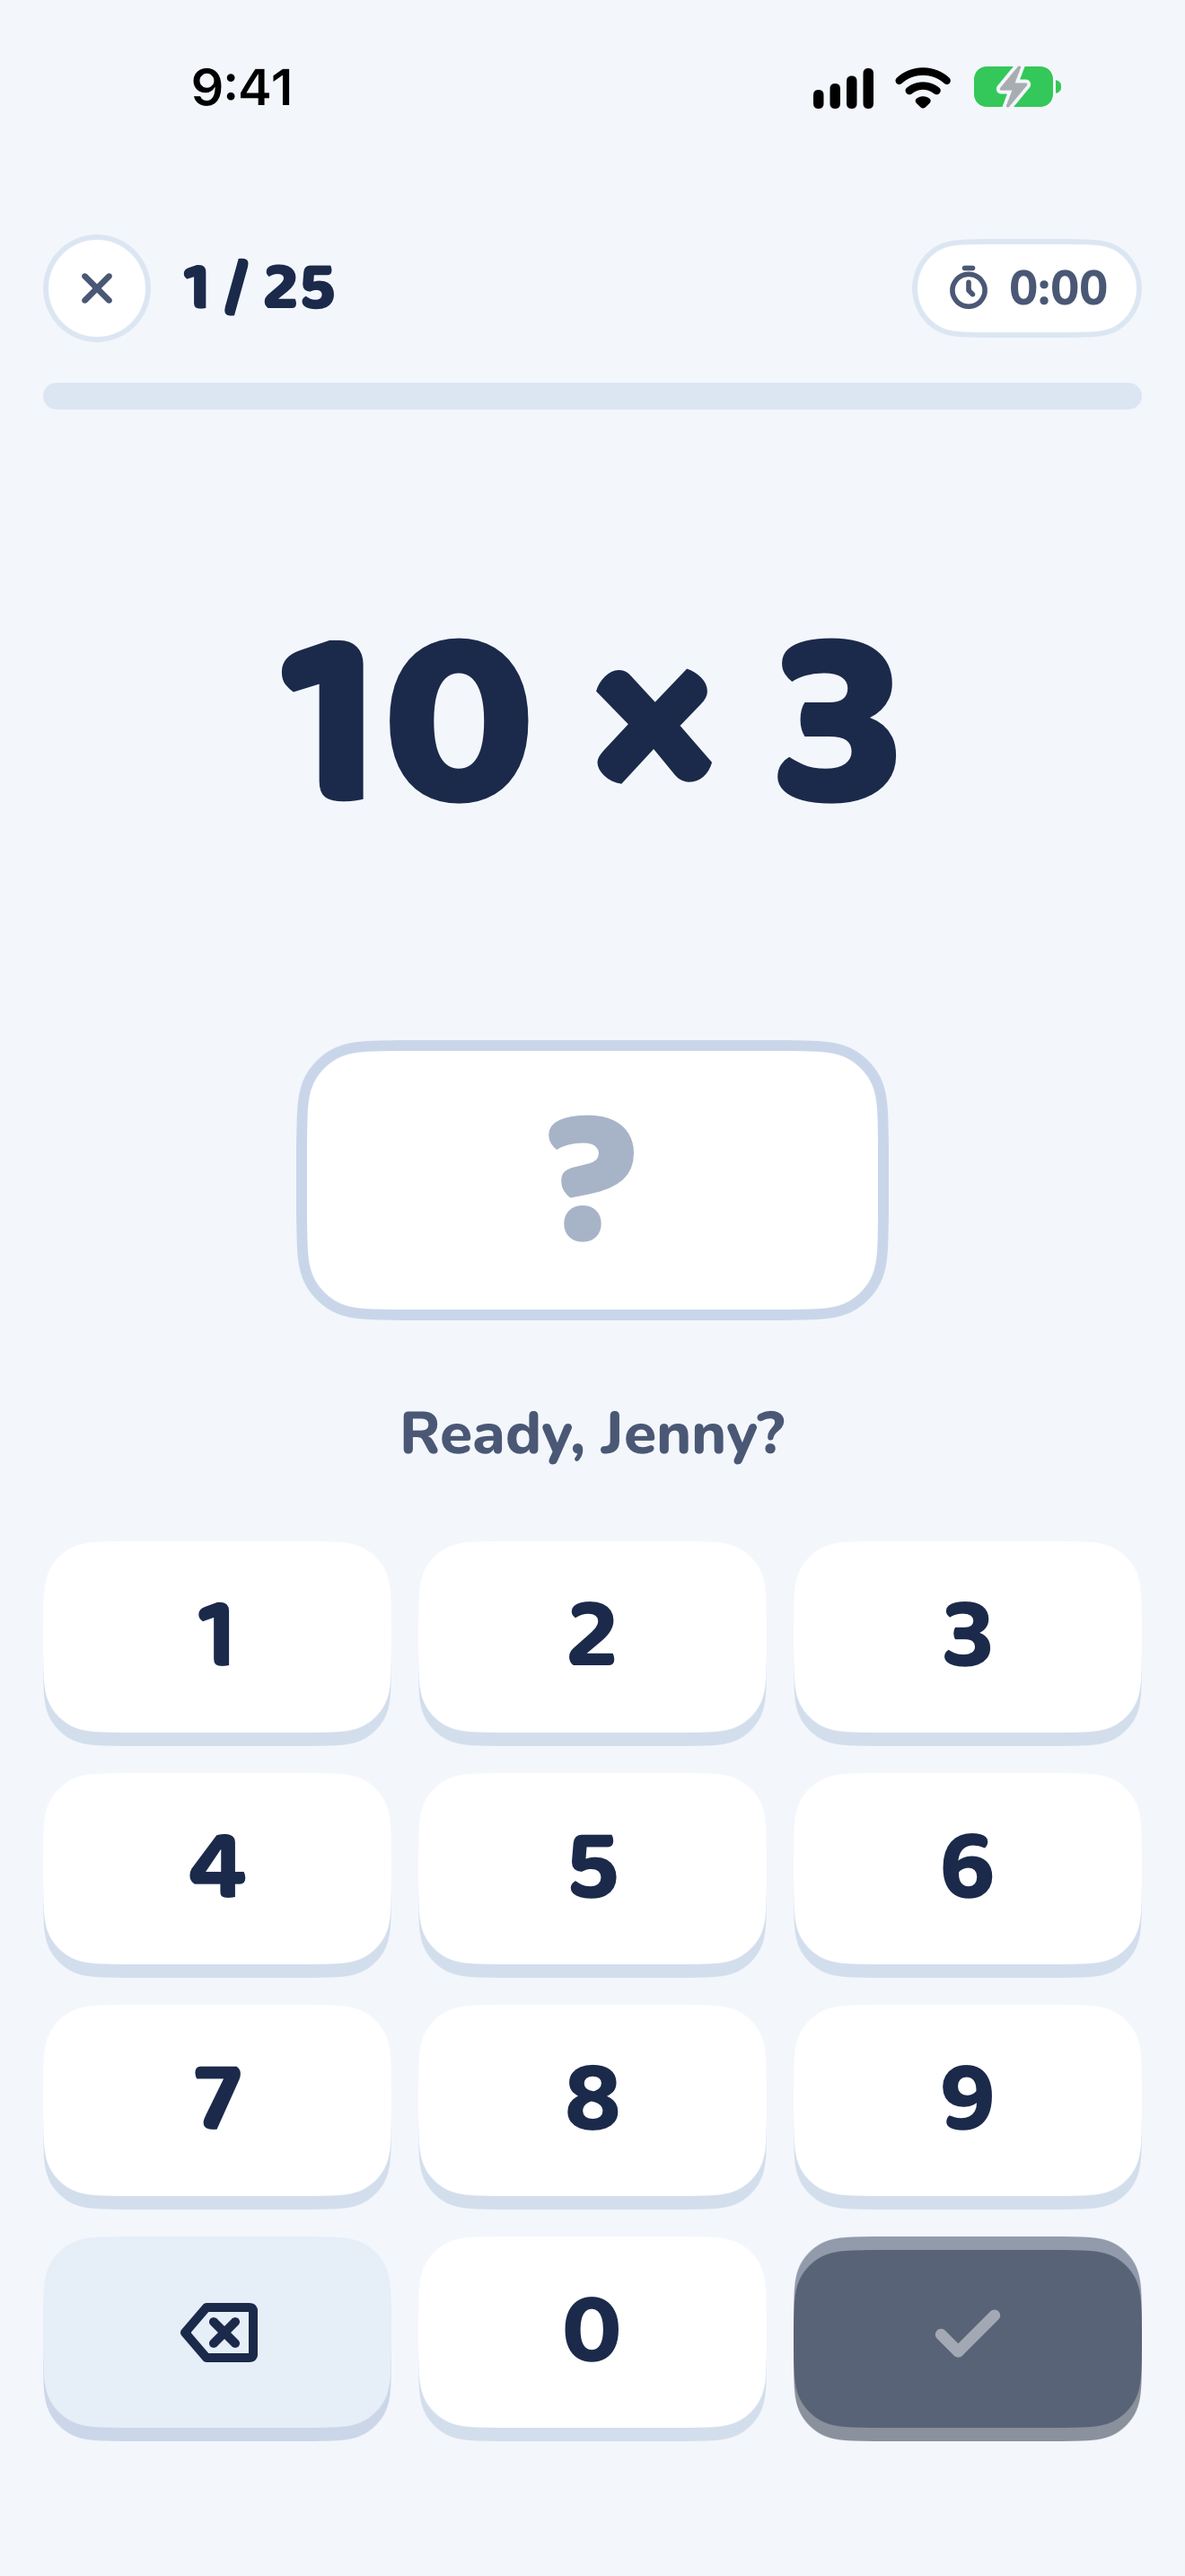
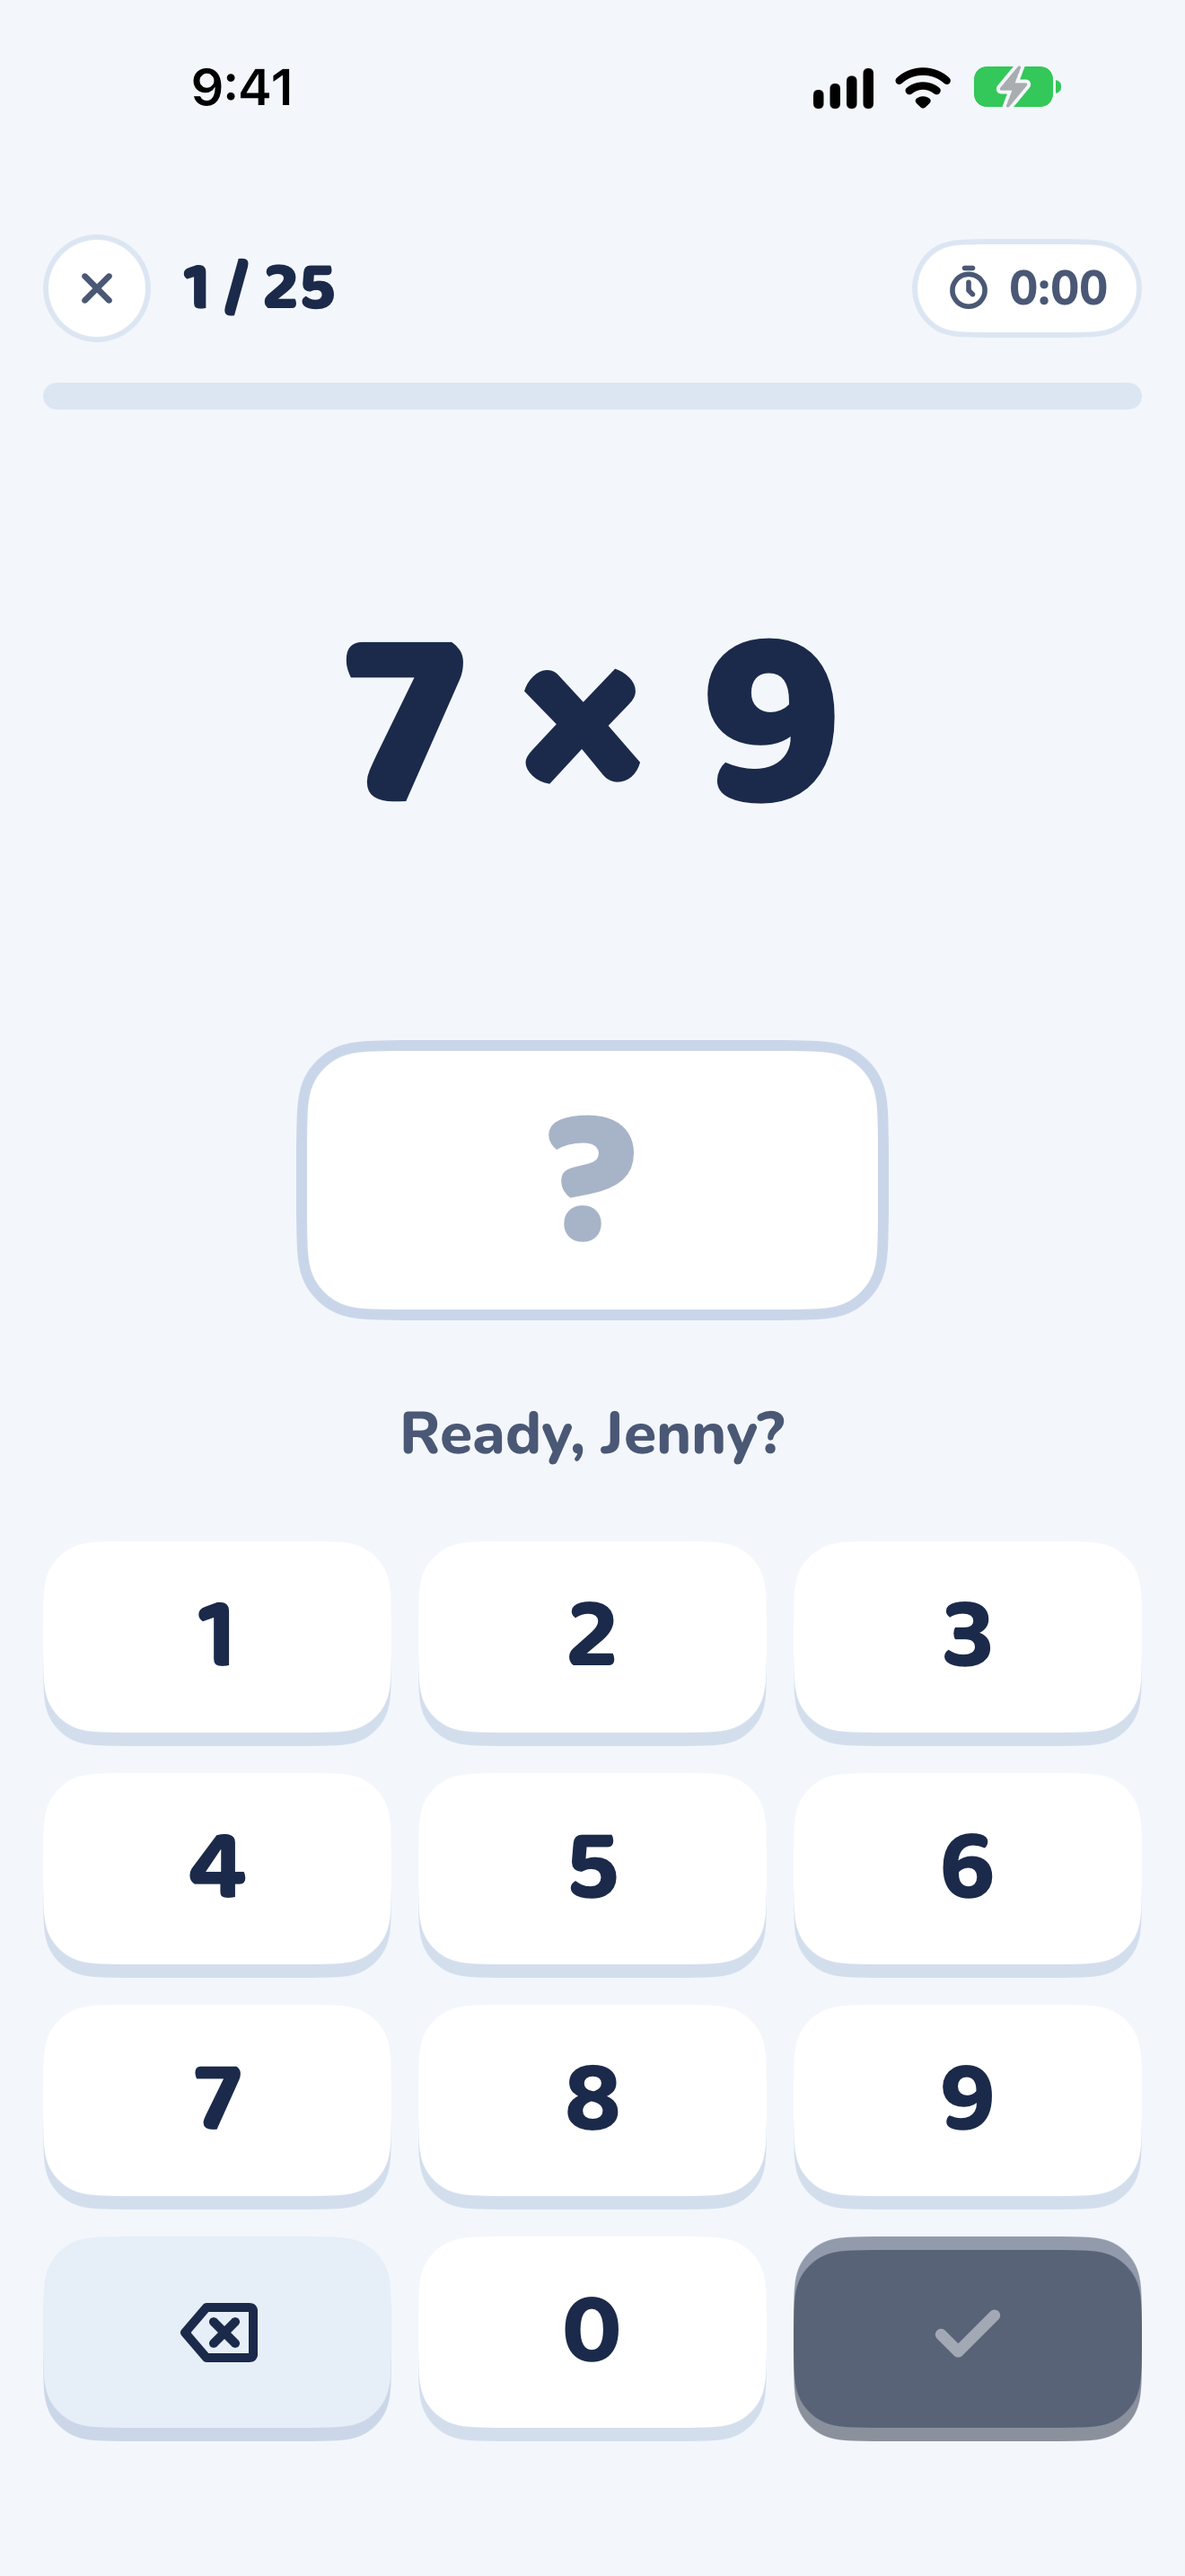
Retake the iPhone screenshots after the times-table cap
The cap changes which deck a seed deals, and seed 42 now opens with
17 + 1. Seed 16 opens with 7 × 9, a nudge on 6 × 6, then 10 + 4.

The UI test now waits for the keyboard before typing the name: on a
freshly booted simulator it dropped letters and typed only "J".

Changed region(s): [[0.2174, 0.2483, 0.7765, 0.3103]]

diff --git a/ios/SumbeeUITests/SessionUITests.swift b/ios/SumbeeUITests/SessionUITests.swift
@@ -10,9 +10,9 @@ final class SessionUITests: XCTestCase {
     override func setUp() {
         continueAfterFailure = false
         app = XCUIApplication()
-        // Seed 42 opens with 10 × 3, 6 × 8 and 10 + 16 for "Jenny", + and ×, numbers up to 20: good
+        // Seed 16 opens with 7 × 9, 6 × 6 and 10 + 4 for "Jenny", + and ×, numbers up to 20: good
         // cards for the store screenshots. Any seed works for the test itself.
-        app.launchArguments = ["-uiTesting", "-seed", "42"]
+        app.launchArguments = ["-uiTesting", "-seed", "16"]
         app.launch()
     }
 
@@ -20,7 +20,10 @@ final class SessionUITests: XCTestCase {
         XCTAssertTrue(app.buttons["start"].waitForExistence(timeout: 5))
         let name = app.textFields["name"]
         name.tap()
+        // On a freshly booted simulator, typing before the keyboard is up drops letters.
+        XCTAssertTrue(app.keyboards.firstMatch.waitForExistence(timeout: 10))
         name.typeText("Jenny\n")
+        XCTAssertEqual(name.value as? String, "Jenny")
         app.buttons["op.TIMES"].tap()
         XCTAssertTrue(app.buttons["op.TIMES"].isSelected)
         Thread.sleep(forTimeInterval: 0.5) // let the tile finish changing colour
